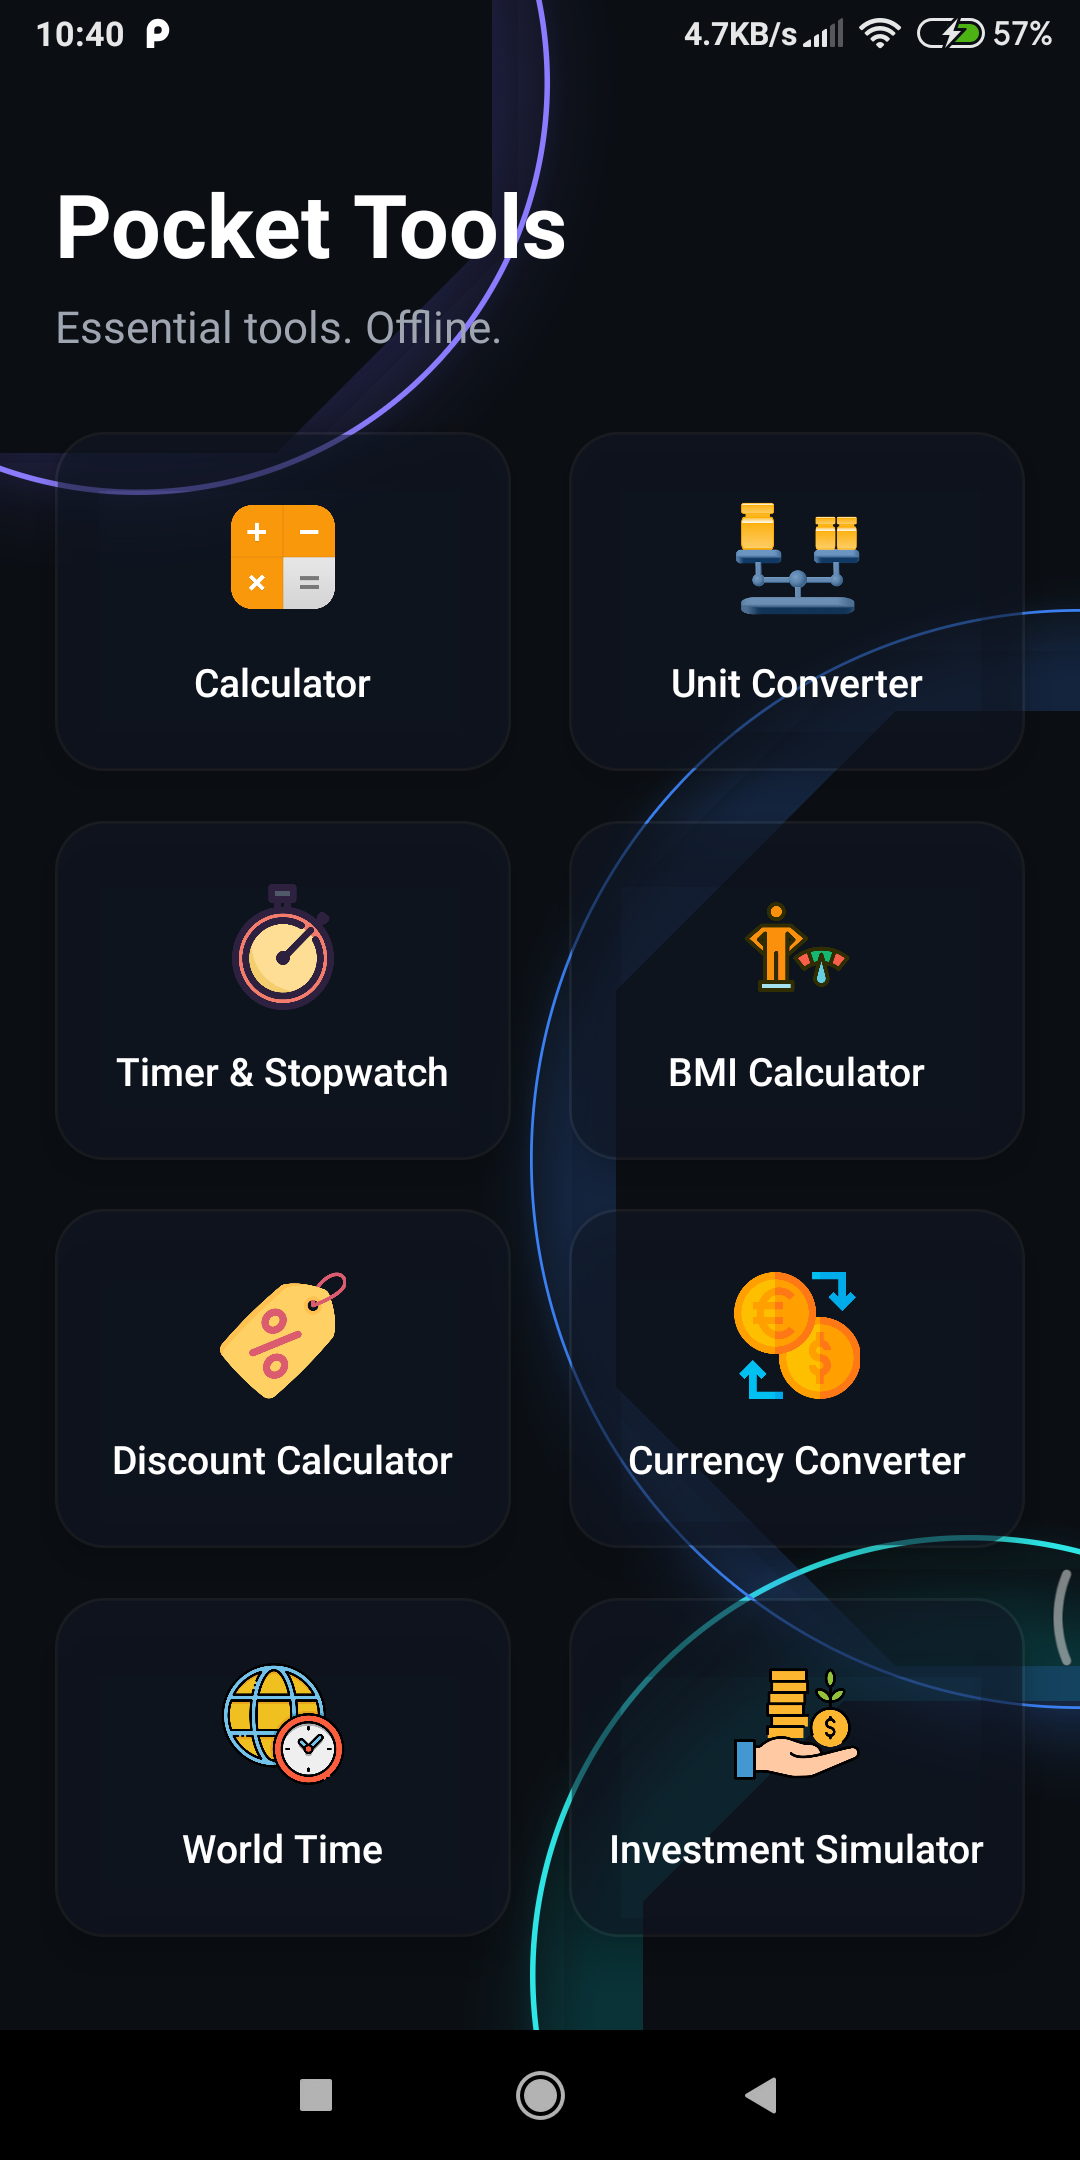
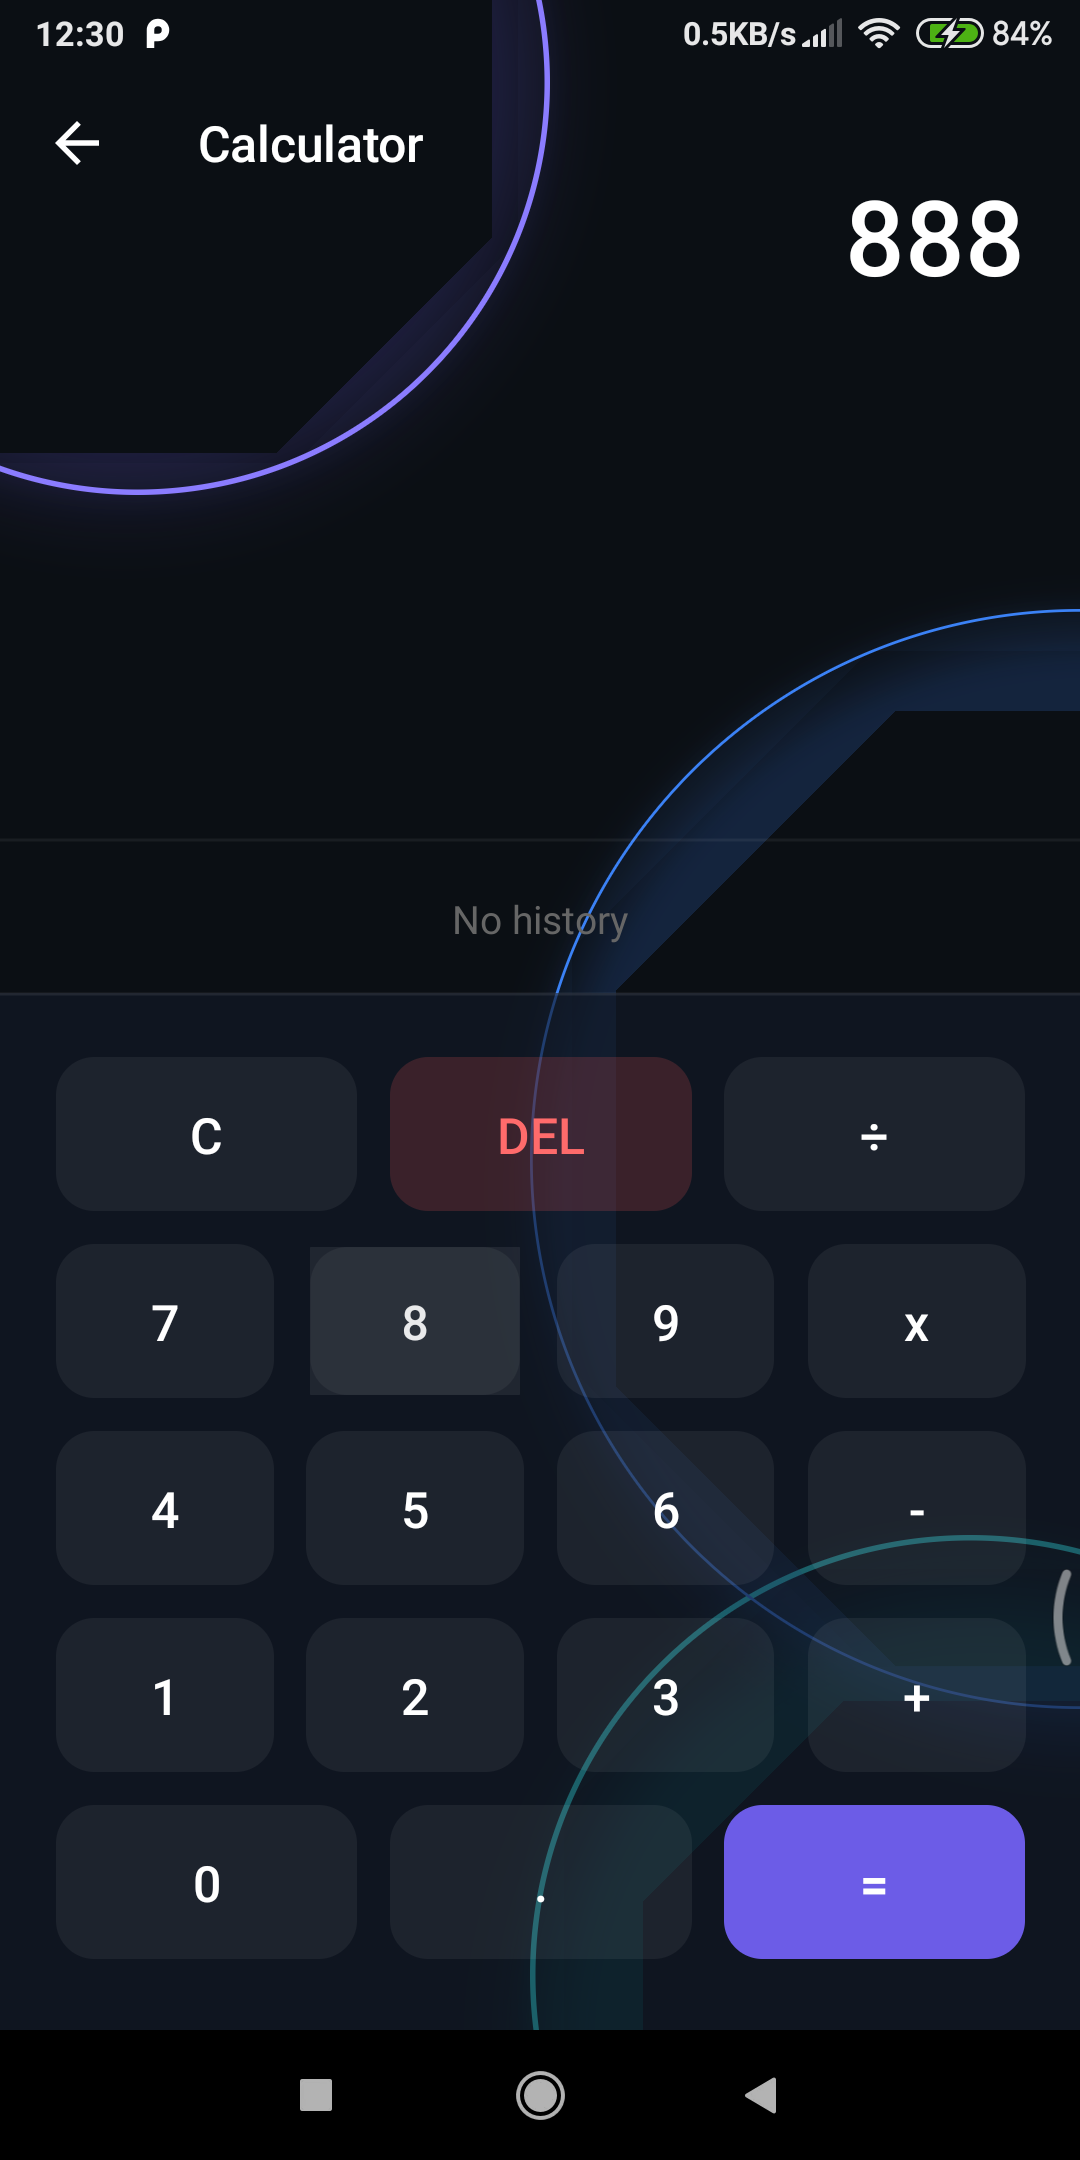
calculator design

diff --git a/app/screens/calculator/index.js b/app/screens/calculator/index.js
@@ -2,15 +2,16 @@ import React, { useState } from 'react';
 import {
   View,
   Text,
-  StyleSheet,
   Alert,
-  SafeAreaView,
 } from 'react-native';
 
+import Screen from '../../screens';
 import NumberButtons from '../../components/numberButton';
 import HistoryView from '../../components/historyView';
-import colors from '../../config/colors';
 
+import styles from './styles';
+
+/* ---------- Expression Evaluation ---------- */
 const evaluateExpression = (expression) => {
   try {
     if (!expression) return null;
@@ -73,46 +74,36 @@ const Calculator = () => {
   };
 
   return (
-    <SafeAreaView style={styles.container}>
-      <View style={styles.displayContainer}>
-        <Text style={styles.outputText}>
-          {output || '0'}
-        </Text>
+    <Screen>
+      <View style={styles.container}>
+        {/* ---------- Display ---------- */}
+        <View style={styles.displayContainer}>
+          <Text style={styles.outputText}>
+            {output || '0'}
+          </Text>
+        </View>
+
+        {/* ---------- History + Keypad Stack ---------- */}
+        <View style={styles.bottomStack}>
+          <View style={styles.historyContainer}>
+            <HistoryView
+              data={history}
+              onClear={clearHistory}
+            />
+          </View>
+
+          <View style={styles.keypadContainer}>
+            <NumberButtons
+              onPress={handleInput}
+              onClear={handleClear}
+              onDelete={handleDelete}
+              onEqual={handleEquals}
+            />
+          </View>
+        </View>
       </View>
-
-      <HistoryView
-        data={history}
-        onClear={clearHistory}
-      />
-
-      <NumberButtons
-        onPress={handleInput}
-        onClear={handleClear}
-        onDelete={handleDelete}
-        onEqual={handleEquals}
-      />
-    </SafeAreaView>
+    </Screen>
   );
 };
 
 export default Calculator;
-
-const styles = StyleSheet.create({
-  container: {
-    flex: 1,
-    backgroundColor: colors.background || '#000',
-  },
-  displayContainer: {
-    padding: 20,
-    alignItems: 'flex-end',
-    justifyContent: 'center',
-    minHeight: 120,
-    borderBottomWidth: 1,
-    borderBottomColor: '#333',
-  },
-  outputText: {
-    fontSize: 36,
-    color: '#fff',
-    fontWeight: '600',
-  },
-});

diff --git a/app/components/numberButton/index.js b/app/components/numberButton/index.js
@@ -1,12 +1,8 @@
 import React from 'react';
-import {
-  View,
-  Text,
-  StyleSheet,
-  Pressable,
-} from 'react-native';
+import { View, Text, Pressable } from 'react-native';
+import styles from './styles';
 
-const buttons = [
+const BUTTONS = [
   ['C', 'DEL', '÷'],
   ['7', '8', '9', 'x'],
   ['4', '5', '6', '-'],
@@ -24,20 +20,38 @@ const NumberButtons = ({
     if (value === 'C') return onClear();
     if (value === 'DEL') return onDelete();
     if (value === '=') return onEqual();
-    onPress(value);
+    return onPress(value);
+  };
+
+  const getButtonStyle = (label) => {
+    if (label === '=') return styles.equalButton;
+    if (label === 'DEL') return styles.deleteButton;
+    return styles.defaultButton;
+  };
+
+  const getTextStyle = (label) => {
+    if (label === '=') return styles.equalText;
+    if (label === 'DEL') return styles.deleteText;
+    return styles.text;
   };
 
   return (
-    <View style={styles.container}>
-      {buttons.map((row, rowIndex) => (
+    <View>
+      {BUTTONS.map((row, rowIndex) => (
         <View key={rowIndex} style={styles.row}>
-          {row.map((btn) => (
+          {row.map((label) => (
             <Pressable
-              key={btn}
-              style={styles.button}
-              onPress={() => handlePress(btn)}
+              key={label}
+              onPress={() => handlePress(label)}
+              style={({ pressed }) => [
+                styles.baseButton,
+                getButtonStyle(label),
+                pressed && styles.pressed,
+              ]}
             >
-              <Text style={styles.text}>{btn}</Text>
+              <Text style={getTextStyle(label)}>
+                {label}
+              </Text>
             </Pressable>
           ))}
         </View>
@@ -47,26 +61,3 @@ const NumberButtons = ({
 };
 
 export default NumberButtons;
-
-const styles = StyleSheet.create({
-  container: {
-    paddingBottom: 10,
-  },
-  row: {
-    flexDirection: 'row',
-    justifyContent: 'space-between',
-  },
-  button: {
-    flex: 1,
-    margin: 5,
-    paddingVertical: 18,
-    borderRadius: 10,
-    backgroundColor: '#1c1c1c',
-    alignItems: 'center',
-  },
-  text: {
-    color: '#fff',
-    fontSize: 20,
-    fontWeight: '500',
-  },
-});

diff --git a/app/screens/calculator/styles.js b/app/screens/calculator/styles.js
@@ -1,47 +1,49 @@
-import {StyleSheet} from 'react-native';
+import { StyleSheet } from 'react-native';
+import theme from '../../themes';
 
 export default StyleSheet.create({
   container: {
     flex: 1,
   },
 
-  buttonContainer: {
-    elevation: 8,
-    backgroundColor: '#a8323e',
-    borderRadius: 10,
-    paddingVertical: 10,
-    paddingHorizontal: 12,
-  },
-
-  buttonText: {
-    color: 'white',
-  },
-
-  contHistory: {
-    flex: 0.3,
-    backgroundColor: '#bdc3c7',
-  },
-
-  contOutput: {
-    flex: 0.2,
-  },
-
-  contButtons: {
-    flex: 0.5,
-    backgroundColor: '#bdc3c7',
-  },
-
-  placeHolderOutput: {
-    flex: 1,
-    backgroundColor: '#424242',
-    justifyContent: 'center',
+  /* ---------- Display ---------- */
+  displayContainer: {
+    paddingHorizontal: 20,
+    paddingTop: 20,
+    paddingBottom: 12,
     alignItems: 'flex-end',
-    paddingRight: 20,
   },
 
-  textDefault: {
-    color: '#fff',
-    fontFamily: 'Helvetica-Light',
-    fontSize: 30,
+  outputText: {
+    fontSize: 38,
+    fontWeight: '600',
+    color: theme.colors.textPrimary,
+  },
+
+  /* ---------- Bottom Stack ---------- */
+  bottomStack: {
+    flex: 1,
+    justifyContent: 'flex-end', // 👈 push history + keypad to bottom
+  },
+
+  /* ---------- History ---------- */
+  historyContainer: {
+    paddingHorizontal: 20,
+    paddingTop: 8,
+    paddingBottom: 8,
+
+    borderTopWidth: 1,
+    borderTopColor: 'rgba(255,255,255,0.06)',
+  },
+
+  /* ---------- Keypad ---------- */
+  keypadContainer: {
+    paddingHorizontal: 14,
+    paddingTop: 16,
+    paddingBottom: 20,
+
+    backgroundColor: 'rgba(17, 24, 39, 0.65)',
+    borderTopWidth: 1,
+    borderTopColor: 'rgba(255,255,255,0.08)',
   },
 });

diff --git a/app/components/numberButton/styles.js b/app/components/numberButton/styles.js
@@ -1,27 +1,56 @@
-import {StyleSheet} from 'react-native';
+import { StyleSheet } from 'react-native';
+import theme from '../../themes';
 
 export default StyleSheet.create({
-    
-  container: {
-    flex: 1,
-  },
-
-  txtDefault: {
-    color: '#000',
-    fontFamily: 'Helvetica-Light',
-    fontSize: 20,
-  },
-
-  contRow: {
-    flex: 1,
+  row: {
     flexDirection: 'row',
+    justifyContent: 'space-between',
   },
 
-  contButton: {
+  /* ---------- BASE BUTTON ---------- */
+  baseButton: {
     flex: 1,
+    height: 56,
+    margin: 6,
+    borderRadius: 16, // 👈 consistent bubble radius
     justifyContent: 'center',
     alignItems: 'center',
-    borderWidth: 0.5,
-    borderColor: '#ecf0f1',
+
+    backgroundColor: 'rgba(255,255,255,0.06)',
+  },
+
+  defaultButton: {},
+
+  /* ---------- TEXT ---------- */
+  text: {
+    fontSize: 18,
+    fontWeight: '500',
+    color: theme.colors.textPrimary,
+  },
+
+  /* ---------- DELETE (FADED RED) ---------- */
+  deleteButton: {
+    backgroundColor: 'rgba(255, 90, 90, 0.18)',
+  },
+  deleteText: {
+    color: '#ff6b6b',
+    fontWeight: '600',
+    fontSize: 18,
+  },
+
+  /* ---------- EQUAL (PRIMARY NEON) ---------- */
+  equalButton: {
+    backgroundColor: theme.colors.primary,
+  },
+  equalText: {
+    color: '#fff',
+    fontWeight: '700',
+    fontSize: 18,
+  },
+
+  /* ---------- PRESS EFFECT (THE KEY FIX) ---------- */
+  pressed: {
+    transform: [{ scale: 0.95 }],
+    backgroundColor: 'rgba(108, 92, 231, 0.35)', // 👈 neon-tinted overlay
   },
 });
